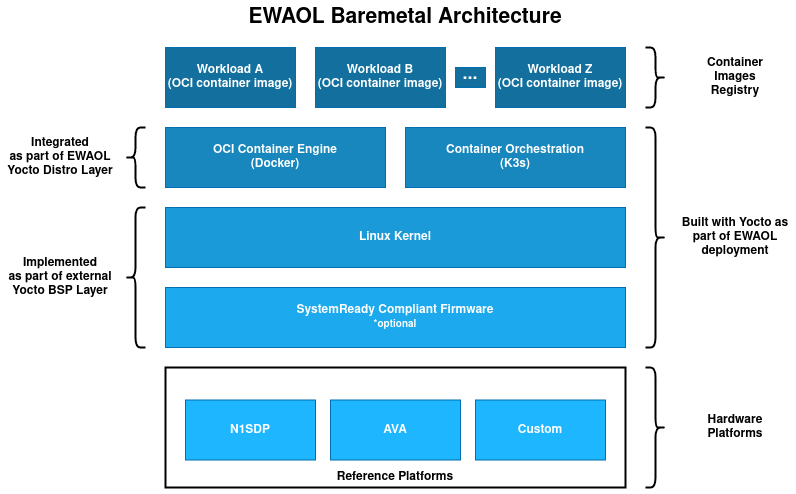
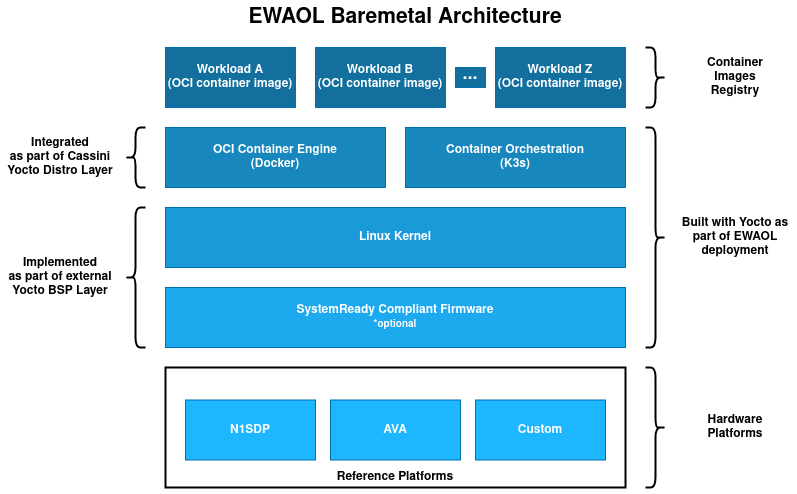
ewaol-[distro,config],doc: Refactor meta-ewaol to extend meta-cassini
The Cassini project (https://gitlab.arm.com/cassini/meta-cassini) provides a
framework for deployment and orchestration of applications (edge runtime) within
containers. This patch refactors the implementation of EWAOL as an extension of
Cassini to avoid duplication of functionality.

Changes included in this patch:

  * Introduce the meta-cassini Yocto layer dependency, with associated kas
    configuration
  * Base the EWAOL core-image (e.g. EWAOL baremetal) on cassini-image
  * Drop any recipes and bbappends which are provided by the upstream
    meta-cassini
  * Update documentation with details of the extra Yocto layer dependency,
    and reference the aspects of the EWAOL Distribution that are extended from
    the Cassini project

Issue-Id: SCM-5182

diff --git a/documentation/variables.py b/documentation/variables.py
@@ -31,10 +31,12 @@ yocto_linux_version = "5.15"
 xen_version = "4.16"
 kas_version = "3.1"
 ewaol_version = "v1.0"
+cassini_version = "v0.9.0"
 
 n1sdp_link = "https://developer.arm.com/documentation/101489/0000"
 
 general_links = {
+  "link:Project Cassini": "https://www.arm.com/solutions/infrastructure/edge-computing/project-cassini",
   "link:Yocto Project Documentation": f"https://docs.yoctoproject.org/{yocto_doc_version}",
   "link:Yocto Release Process": "https://docs.yoctoproject.org/ref-manual/release-process.html",
   "link:kernel module compilation": f"https://docs.yoctoproject.org/{yocto_doc_version}kernel-dev/common.html#building-out-of-tree-modules-on-the-target",
@@ -87,14 +89,17 @@ layer_definitions = {
   "meta-openembedded branch": f"{yocto_release}",
   "meta-virtualization branch": f"{yocto_release}",
   "meta-arm branch": f"{yocto_release}",
+  "meta-cassini branch": f"{yocto_release}",
   "poky revision": "HEAD",
   "meta-virtualization revision": "HEAD",
   "meta-openembedded revision": "HEAD",
   "meta-arm revision": "HEAD",
+  "meta-cassini revision": cassini_version,
   "layer dependency statement": f"The layer revisions are related to the EWAOL ``{yocto_release}-dev`` branch.",
 }
 
 other_definitions = {
+  "meta-cassini documentation": f"https://cassini.docs.arm.com/en/{cassini_version}/introduction.html",
   "kas version": f"{kas_version}",
   "virtualization customization yaml":
       """

diff --git a/documentation/introduction.rst b/documentation/introduction.rst
@@ -10,11 +10,14 @@ Introduction
 The Edge Workload Abstraction and Orchestration Layer (EWAOL) project provides
 users with a standards-based framework using containers for the deployment and
 orchestration of applications on edge platforms. EWAOL is provided as the
-``meta-ewaol`` repository, which includes metadata for building EWAOL
-distribution images via the Yocto Project.
+``meta-ewaol`` repository, which includes metadata for building the EWAOL
+software stack as a custom Linux distribution via the Yocto Project.
 
-Under this approach, a full software stack is divided into the following
-software layers:
+The EWAOL distribution is an extension of the |Project Cassini|_ distribution as
+provided by the upstream ``meta-cassini`` Yocto layer repository, with
+associated documentation at: |meta-cassini documentation|.
+
+The EWAOL software stack is divided into the following software layers:
 
   * **Application workloads**:
 
@@ -31,21 +34,24 @@ software layers:
     functionalities and facilitate deployment and orchestration of user
     application workloads. These tools and services include the Docker container
     engine, the K3s container orchestration framework, and Xen virtualization
-    management software, together with their run-time dependencies. In addition,
-    EWAOL provides supporting packages such as those which enable run-time
-    validation tests or software development capabilities on the target platform.
+    management software, together with their run-time dependencies. These are
+    provided by and adapted from the ``meta-virtualization`` Yocto layer,
+    although the integration of the Docker container engine and the K3s
+    container orchestration framework is inherited as part of the Cassini
+    distribution. In addition, EWAOL provides supporting packages such as those
+    which enable run-time validation tests or software development capabilities
+    on the target platform.
 
   * **System software**:
 
     System software specific to the target platform, composed of firmware,
     bootloader and the operating system, as well as the Xen type-1 hypervisor
     when building an EWAOL distribution with hardware virtualization support.
-    Note that this system software is not directly developed as part of the
-    EWAOL project, but is instead integrated from the meta-arm, meta-arm-bsp,
-    and meta-virtualization Yocto layers.
+    This system software is integrated from the ``meta-arm``, ``meta-arm-bsp``,
+    and ``meta-virtualization`` Yocto layers.
 
-EWAOL is the reference implementation for SOAFEE (Scalable Open Architecture
-For Embedded Edge), the Arm lead industry initiative for extending cloud-native
+EWAOL is the reference implementation for SOAFEE (Scalable Open Architecture For
+Embedded Edge), the Arm lead industry initiative for extending cloud-native
 software development to automotive, with a special focus on real-time and
 functional safety. For more details, please see `<https://soafee.io>`_.
 
@@ -133,8 +139,6 @@ Features Overview
 EWAOL includes the following major features:
 
   * Support for two architectural use-cases (Baremetal, and Virtualization).
-  * Container engine and runtime with Docker and runc-opencontainers.
-  * Container workload orchestration with the K3s Kubernetes distribution.
   * Hardware virtualization support with the Xen type-1 hypervisor.
   * On-target development support with optionally included Software Development
     Kit.
@@ -142,12 +146,19 @@ EWAOL includes the following major features:
     build-time kernel configuration checks.
   * Tools provided for quality assurance and build support.
 
-Other features of EWAOL include:
+By extending the following distributions, EWAOL also inherits and adapts
+additional features:
 
-  * The features provided by the ``poky.conf`` distribution, which EWAOL
-    extends.
-  * Systemd used as the init system.
-  * RPM used as the package management system.
+  * Poky distribution (``poky.conf``) from the ``meta-poky`` Yocto layer
+
+   * Systemd used as the init system.
+   * RPM used as the package management system.
+
+  * Cassini distribution (``cassini.conf``) from the
+    ``meta-cassini-distro`` Yocto layer
+
+   * Container engine and runtime with Docker and runc-opencontainers.
+   * Container workload orchestration with the K3s Kubernetes distribution.
 
 **********************
 Documentation Overview

diff --git a/documentation/manual/architectures.rst b/documentation/manual/architectures.rst
@@ -25,8 +25,8 @@ Baremetal Architecture
 |
 
 An EWAOL baremetal distribution image (``ewaol-baremetal-image``) is enabled if
-``ewaol-baremetal`` is included in ``DISTRO_FEATURES``. The image includes the
-following image features by default:
+``ewaol-baremetal`` is included in ``DISTRO_FEATURES``. The image inherits
+the following image features from ``meta-cassini-distro``, by default:
 
   * Container engine and runtime with Docker and runc-opencontainers
   * Container workload orchestration with the K3s Kubernetes distribution
@@ -57,8 +57,10 @@ enabled if ``ewaol-virtualization`` is included in ``DISTRO_FEATURES``. The
 image includes the following image features by default:
 
   * Hardware virtualization support with the Xen type-1 hypervisor
-  * Container engine and runtime with Docker and runc-opencontainers
-  * Container workload orchestration with the K3s Kubernetes distribution
+  * The following image features are inherited from ``meta-cassini-distro``:
+
+    * Container engine and runtime with Docker and runc-opencontainers
+    * Container workload orchestration with the K3s Kubernetes distribution
 
 On an EWAOL virtualization distribution image, the software stack includes the
 Xen type-1 hypervisor and provides a Control VM (Dom0) and a single bundled

diff --git a/documentation/changelog.rst b/documentation/changelog.rst
@@ -17,6 +17,8 @@ New Features
 * Added support for building and running EWAOL on the AVA Developer Platform
 * Added capability for Xen PCI device passthrough, currently supported for Guest
   VMs running on the AVA Developer Platform
+* Added inherited features from EWAOL's extension of the Cassini distribution,
+  which forms a new Yocto layer dependency
 
 Changed
 =======
@@ -26,6 +28,8 @@ Distro:
   * Updated rootfs size management for EWAOL virtualization distribution images,
     to add build-time functionality that automatically configures the size of
     the Control VM rootfs sufficient to support all Guest VM root filesystems
+  * Refactored the EWAOL distribution as an extension of the Cassini
+    distribution provided by Project Cassini.
 
 Tests:
 

diff --git a/documentation/manual/sdk.rst b/documentation/manual/sdk.rst
@@ -16,8 +16,10 @@ on the target, such as:
   * Tracing
   * Runtime package management
 
-The precise list of packages and image features provided as part of the EWAOL
-SDK can be found in ``meta-ewaol-distro/conf/distro/include/ewaol-sdk.inc``.
+The ``ewaol-sdk`` distro feature inherits ``cassini-sdk`` distro feature from
+Cassini distro. The precise list of packages and image features provided as
+part of the EWAOL SDK can be found in
+``layers/meta-cassini/meta-cassini-distro/conf/distro/include/cassini-sdk.inc``.
 
 The Yocto project provides guidance for some of these common development tasks,
 for example |kernel module compilation|_, |profiling and tracing|_, and

diff --git a/README.md b/README.md
@@ -13,7 +13,10 @@ functional safety. For more details on SOAFEE, please see <http://soafee.io>.
 
 The Edge Workload Abstraction and Orchestration Layer (EWAOL) project provides
 users with a standards based framework using containers for the deployment and
-orchestration of applications on edge platforms.
+orchestration of applications on edge platforms. The EWAOL software stack is
+provided as a custom Linux distribution via the Yocto Project, and extends core
+functionality provided by the Cassini Project (see
+<https://www.arm.com/solutions/infrastructure/edge-computing/project-cassini>).
 
 ## EWAOL Documentation
 

diff --git a/documentation/manual/yocto_layers.rst b/documentation/manual/yocto_layers.rst
@@ -75,6 +75,11 @@ EWAOL depends on the following layer dependency sources:
     branch: |meta-virtualization branch|
     revision: |meta-virtualization revision|
 
+    URL: https://gitlab.arm.com/cassini/meta-cassini
+    layer: meta-cassini-distro
+    branch: |meta-cassini branch|
+    revision: |meta-cassini revision|
+
 Additional layer dependency sources may be conditionally required, depending on
 the specific EWAOL distribution image being built.
 

diff --git a/documentation/manual/hardening.rst b/documentation/manual/hardening.rst
@@ -8,7 +8,8 @@ Security Hardening
 ##################
 
 EWAOL distribution images can be hardened to reduce potential sources or attack
-vectors of security vulnerabilities. EWAOL security hardening modifies the
+vectors of security vulnerabilities, by enabling the security features
+implemented by Project Cassini. This security hardening modifies the
 distribution to:
 
   * Force password update for each user account after first logging in.
